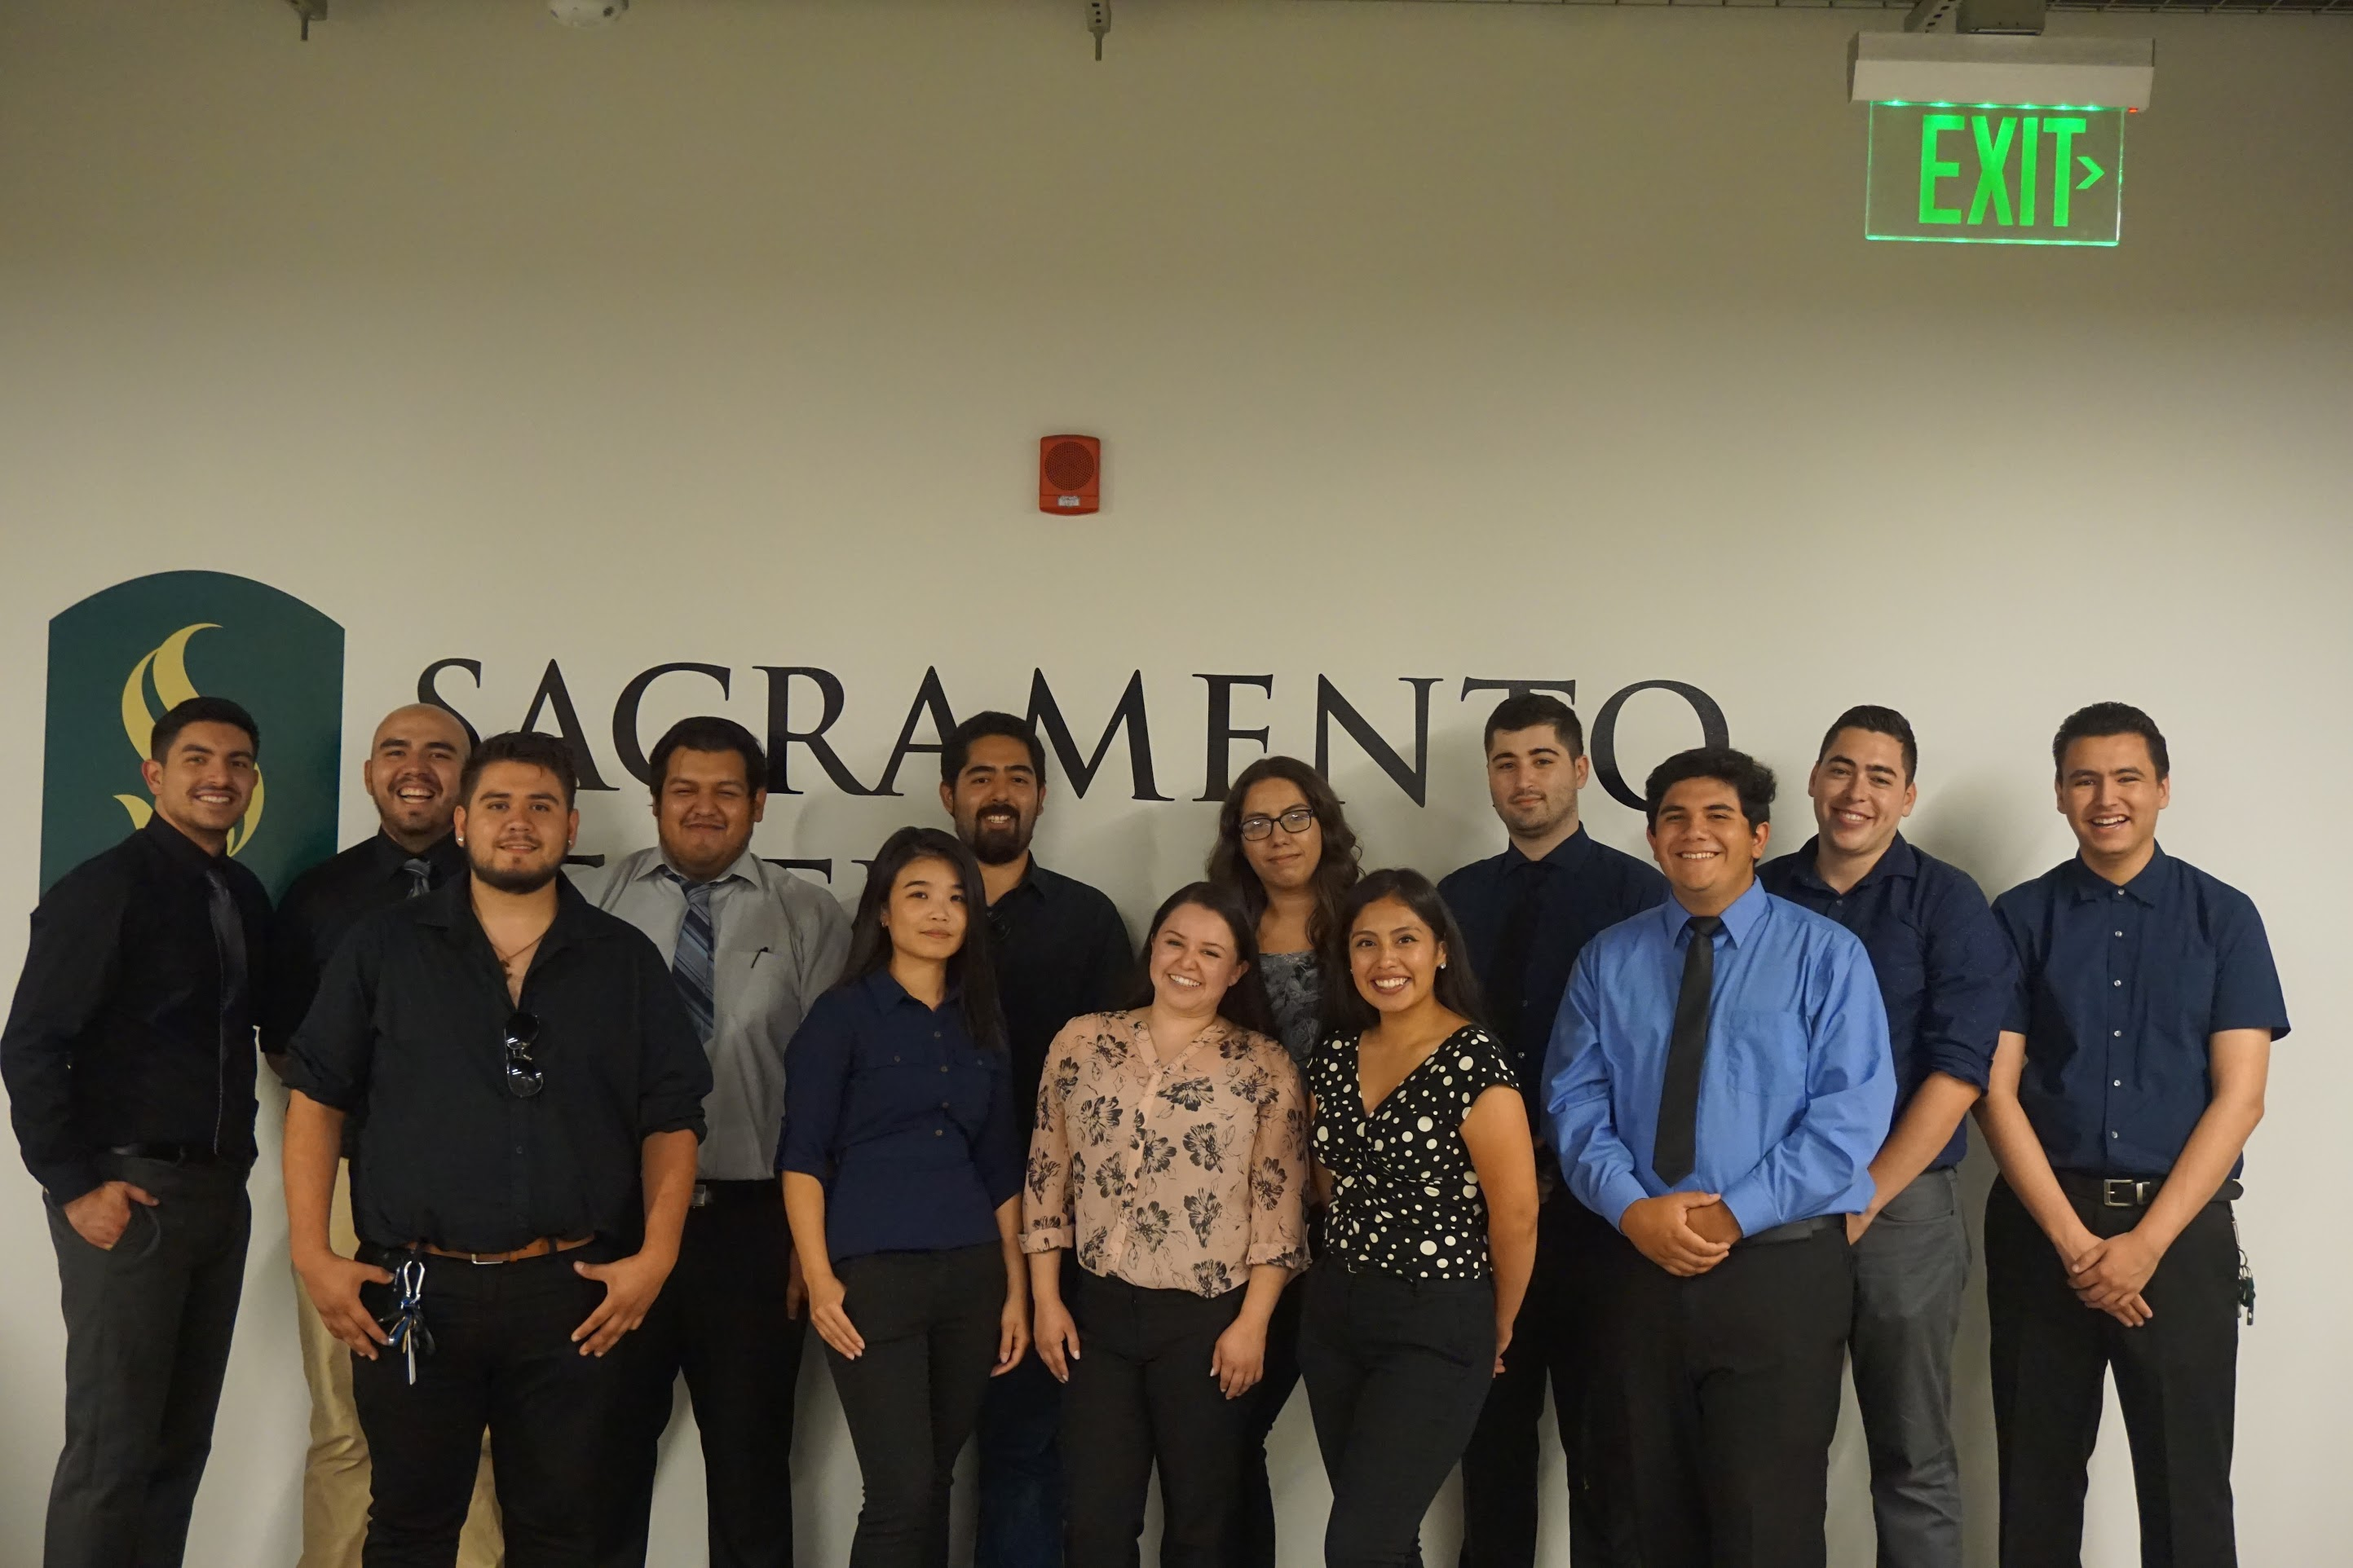
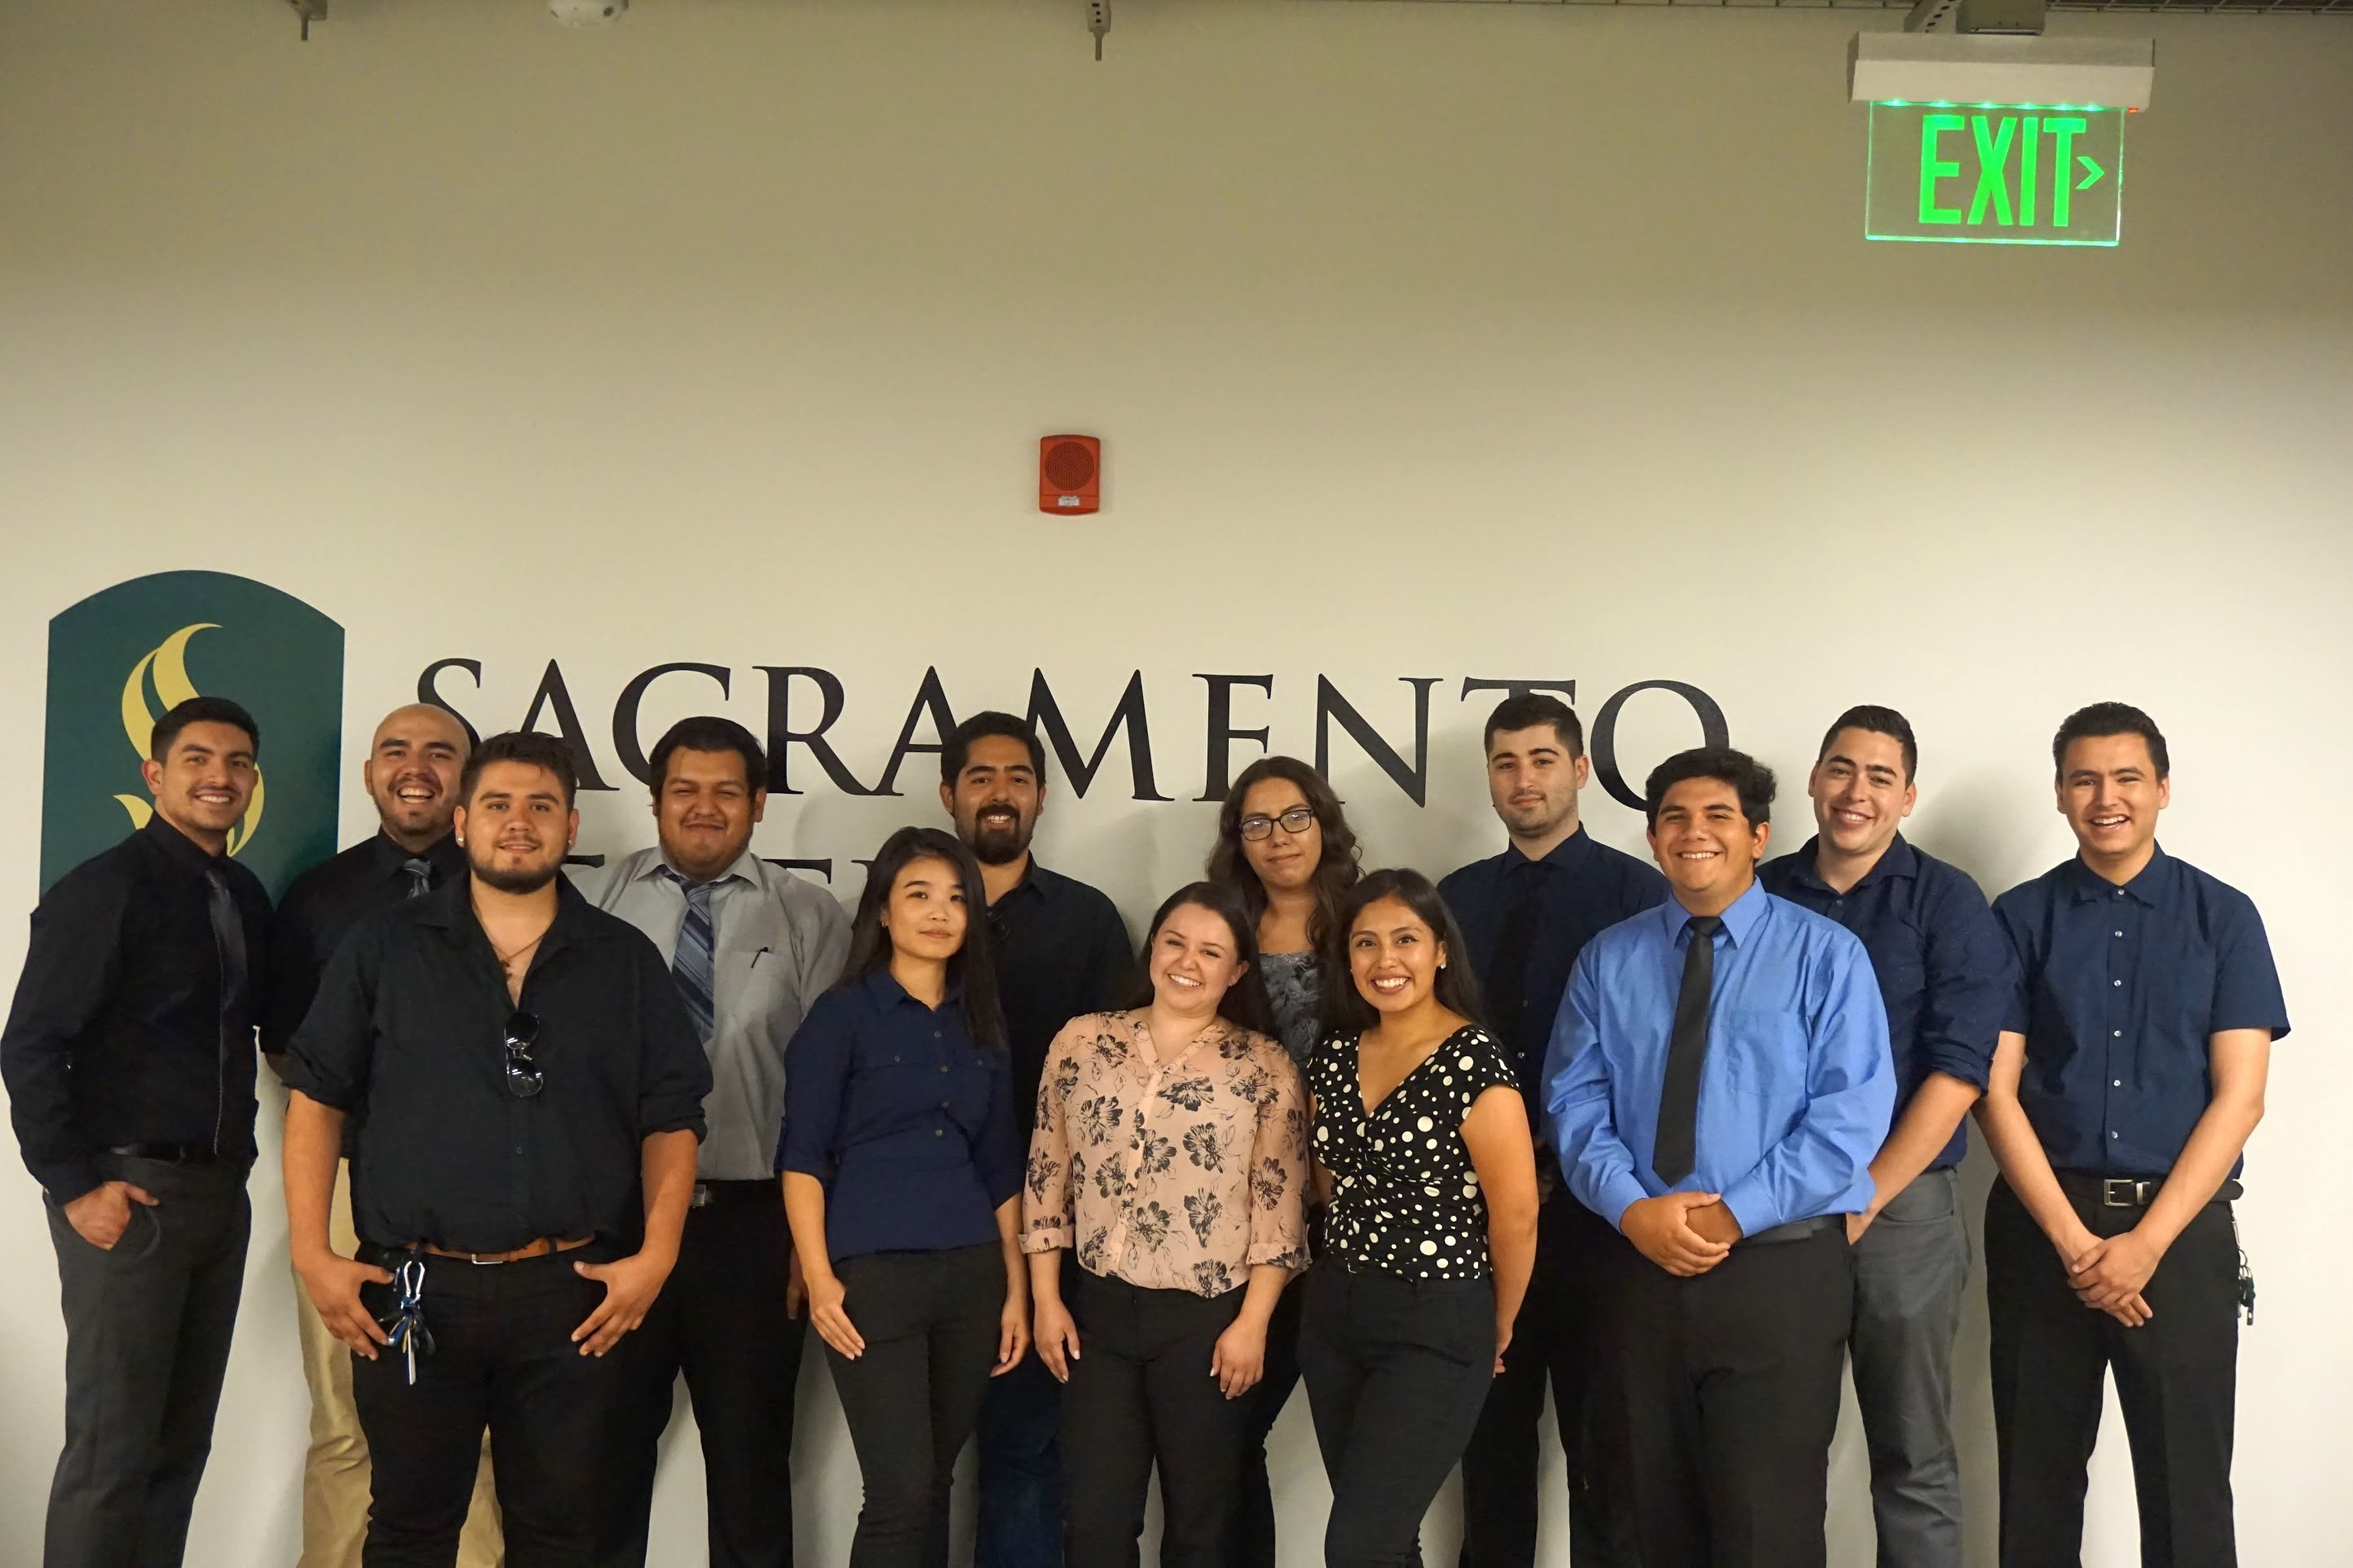
.

diff --git a/index.html b/index.html
@@ -60,10 +60,9 @@
   <header id="myCarousel" class="carousel slide">
     <!-- Wrapper for Slides -->
     <div class="carousel-inner">
-
       <div class="item active">
         <!-- Set the first background image using inline CSS below. -->
-        <div class="fill " style="background-image:url('./img/home/2019-2020/img1.JPG');">
+        <div class="fill " style="background-image:url('./img/home/2019-2020/img1.jpeg');">
           <div class="carousel-content-photo-credits">
           </div>
         </div>
